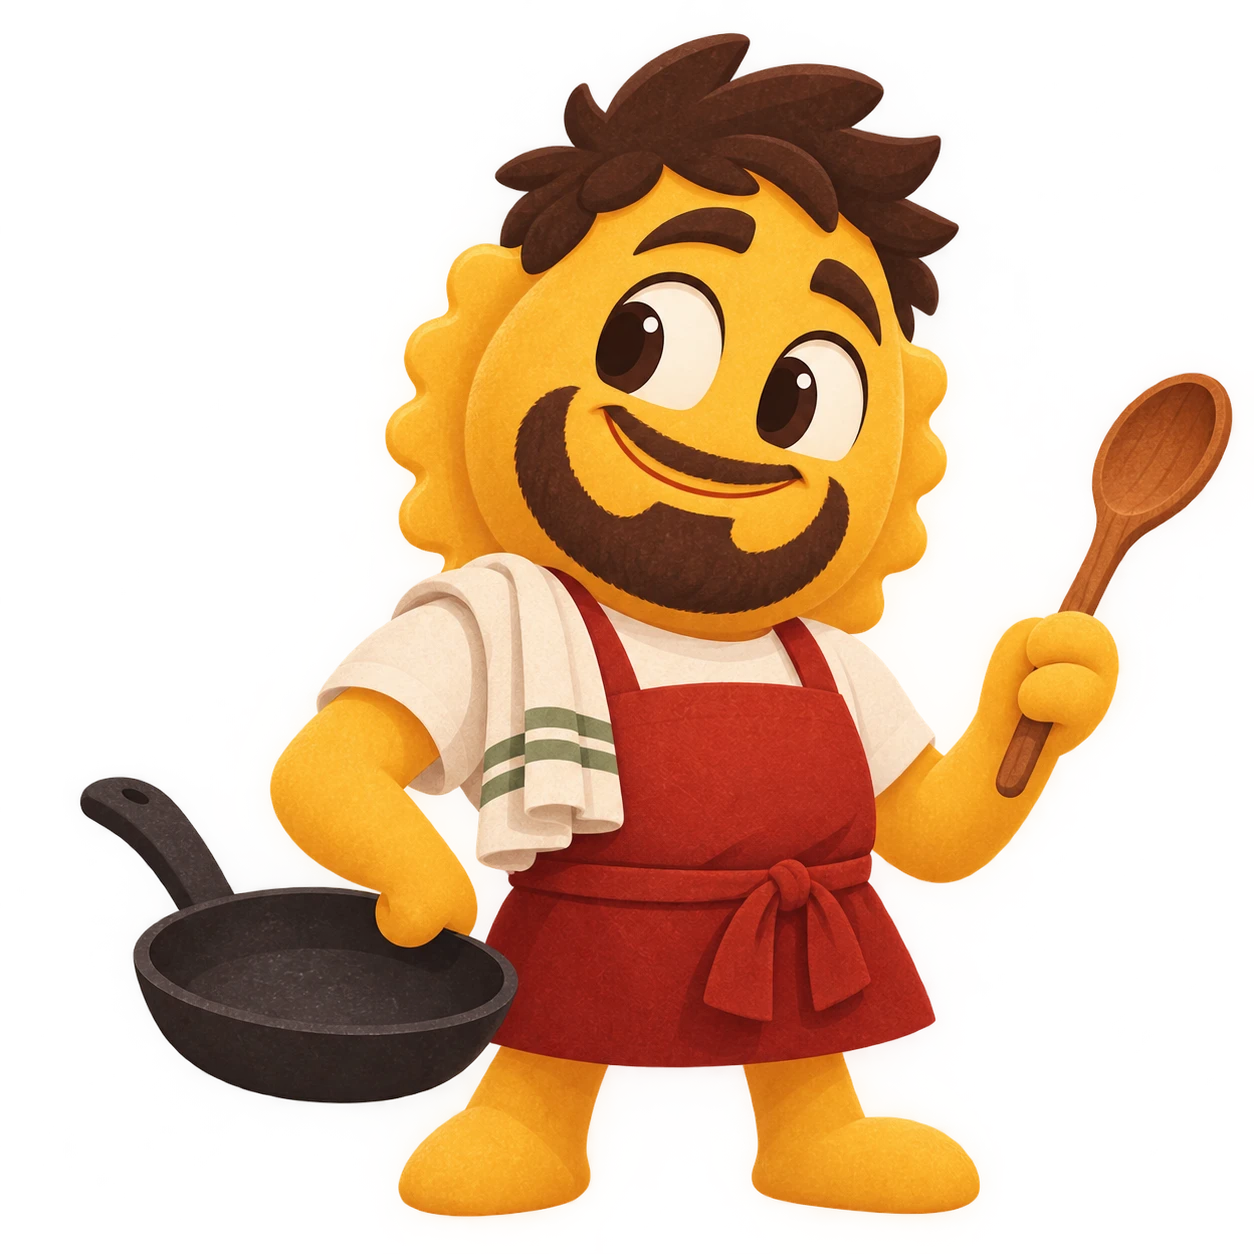
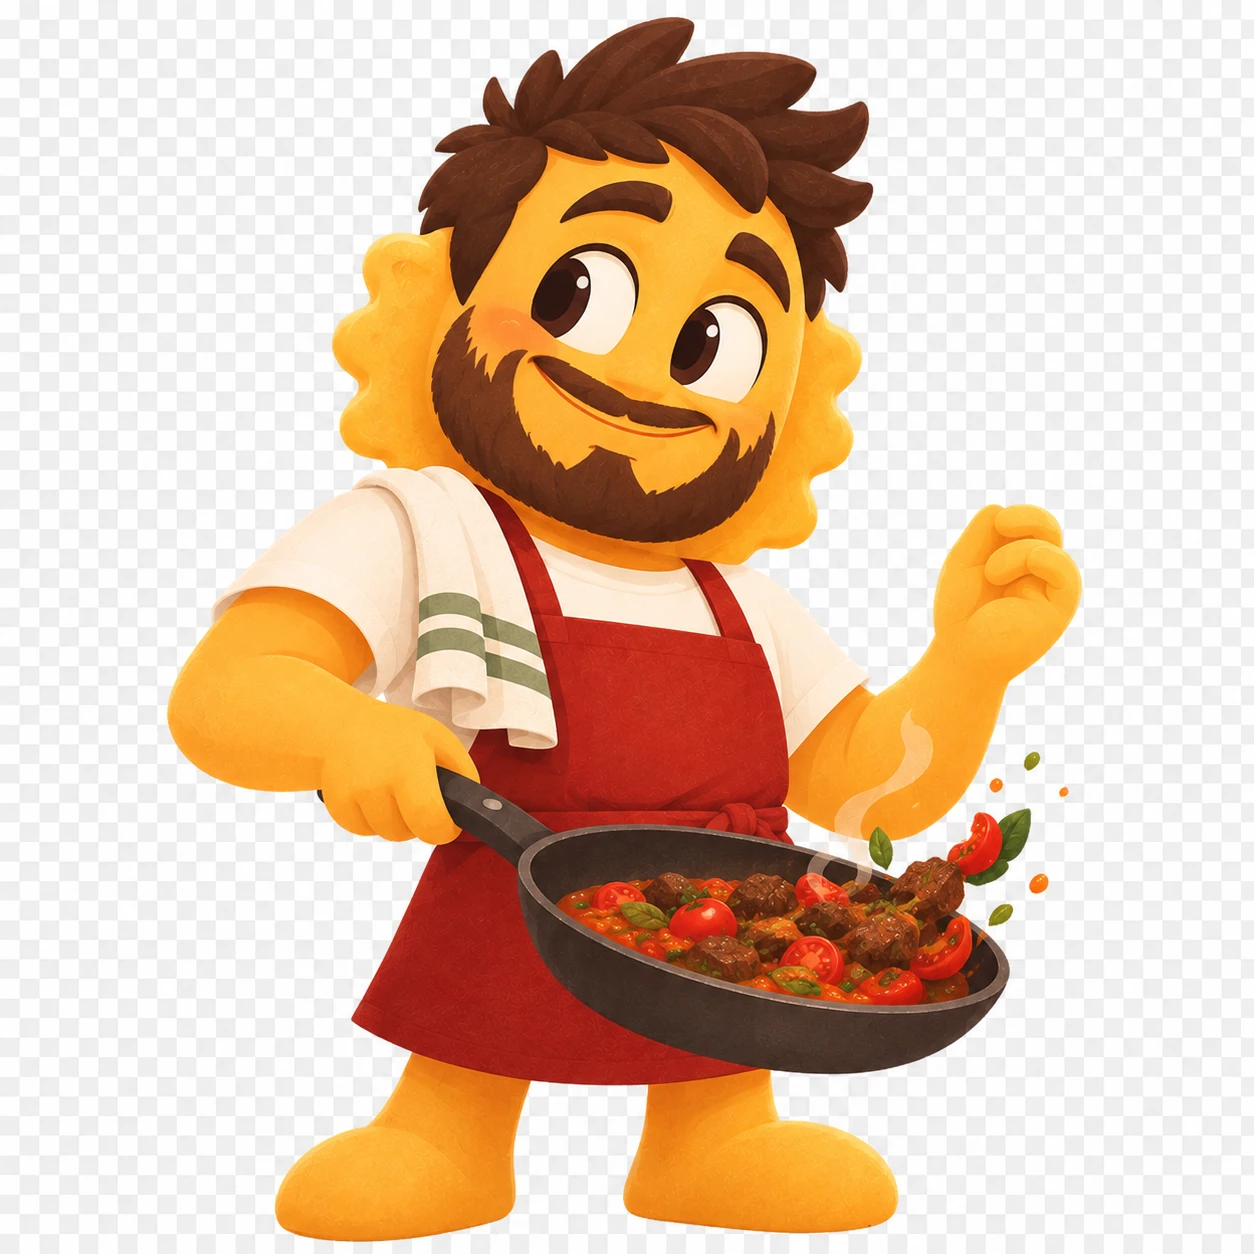
feat(raviolo): use the official Spinacio and Misto Manzo art
Replace the shared placeholder with the final character portraits.

diff --git a/src/pages/raviolo/RavioloLanding.tsx b/src/pages/raviolo/RavioloLanding.tsx
@@ -4,8 +4,6 @@ import { ShoppingBasket, Sparkles, BookOpen, Apple } from "lucide-react";
 import spinacio from "@/assets/raviolo-spinacio.webp";
 import mistoManzo from "@/assets/raviolo-misto-manzo.webp";
 
-// Placeholder art for now — both point at the same reference image. Swap each
-// file in src/assets for the real character once it's ready.
 const assistants = [
   { name: "Spinacio", image: spinacio },
   { name: "Misto Manzo", image: mistoManzo },
